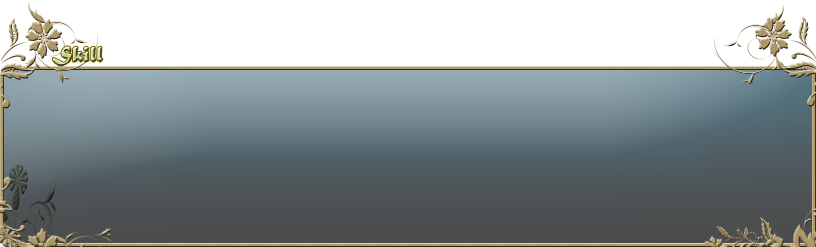
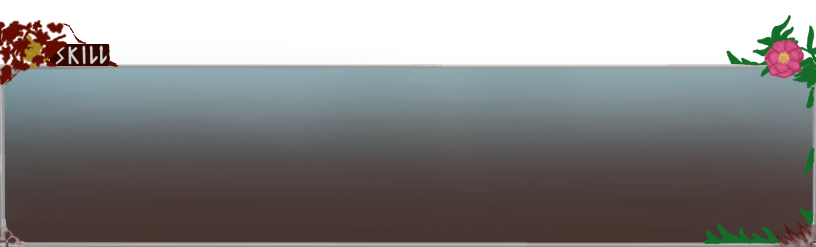
Tok vekk alle de tullete default bildene. Nei jeg lyger jeg gjorde ikke det, men jeg tok vekk en god del :heart: Og så fikset jeg opp i combat koden siden den var silly og frustrerende før, og nå er en tøff! Jeg har også begynt å tegne mere av combai ui'en som er rå kult! Dette var en langog fin com

diff --git a/js/plugins/MOG_BattleHud.js b/js/plugins/MOG_BattleHud.js
@@ -1832,12 +1832,16 @@ Window_BattleEnemy.prototype.maxCols = function() {
 // ** Window_ActorCommand - Command Bar
 //=============================================================================
 
-// How far (in pixels) the selected item slides to the right
-// Change this number to adjust the slide distance
-Window_ActorCommand.COMMAND_BAR_SLIDE = 12;
-
-// X offset for all bars (change this to move them left/right)
+// How far the selected bar pops LEFT (increase to pop more)
+Window_ActorCommand.COMMAND_BAR_SELECTED_X = -8;
+// How far right unselected bars sit
+Window_ActorCommand.COMMAND_BAR_UNSELECTED_X = 10;
+// Base X offset for all bars
 Window_ActorCommand.COMMAND_BAR_OFFSET_X = 8;
+// Scale of selected bar (1.0 = normal)
+Window_ActorCommand.COMMAND_BAR_SELECTED_SCALE = 1.08;
+// Extra spacing between bars in pixels
+Window_ActorCommand.COMMAND_BAR_SPACING = 6;
 
 //==============================
 // * Symbol to image name
@@ -1854,17 +1858,15 @@ Window_ActorCommand.prototype._symbolToBarName = function(symbol) {
 // * Draw Item - suppress default text
 //==============================
 Window_ActorCommand.prototype.drawItem = function(index) {
-	// Do nothing - bars are drawn as sprites in _commandBarContainer
+	// Bars are sprites — suppress default text
 };
 
 //==============================
 // * Create bar sprite container
 //==============================
 Window_ActorCommand.prototype.createCommandBarSprites = function() {
-	if (this._commandBarContainer) {
-		if (this._commandBarContainer.parent) {
-			this._commandBarContainer.parent.removeChild(this._commandBarContainer);
-		}
+	if (this._commandBarContainer && this._commandBarContainer.parent) {
+		this._commandBarContainer.parent.removeChild(this._commandBarContainer);
 	}
 	this._commandBarContainer = new Sprite();
 	this._commandBarSprites = [];
@@ -1872,6 +1874,8 @@ Window_ActorCommand.prototype.createCommandBarSprites = function() {
 	for (var i = 0; i < names.length; i++) {
 		var sp = new Sprite(ImageManager.loadBHud(names[i]));
 		sp._cmdIndex = i;
+		// Start off-screen to the right so they slide in
+		sp.x = Graphics.width + 100;
 		this._commandBarContainer.addChild(sp);
 		this._commandBarSprites.push(sp);
 	}
@@ -1879,17 +1883,51 @@ Window_ActorCommand.prototype.createCommandBarSprites = function() {
 };
 
 //==============================
-// * Update bars position/opacity each frame
+// * Remember last selected symbol globally
 //==============================
-// X offset for unselected bars (nudged right)
-Window_ActorCommand.COMMAND_BAR_UNSELECTED_X = 10;
-// How far selected bar pops left (negative = left)
-Window_ActorCommand.COMMAND_BAR_SELECTED_X = -8;
-// Scale of selected bar
-Window_ActorCommand.COMMAND_BAR_SELECTED_SCALE = 1.08;
-// Extra spacing between bars in pixels
-Window_ActorCommand.COMMAND_BAR_SPACING = 6;
+Window_ActorCommand._lastSymbol = null;
 
+//==============================
+// * Called when player confirms a command — save the symbol
+//==============================
+var _mog_bhud_wActCom_processOk = Window_ActorCommand.prototype.processOk;
+Window_ActorCommand.prototype.processOk = function() {
+	Window_ActorCommand._lastSymbol = this.currentSymbol();
+	_mog_bhud_wActCom_processOk.call(this);
+};
+
+//==============================
+// * Select best command on open
+//==============================
+Window_ActorCommand.prototype.selectFirstEnabled = function() {
+	if (!this._list || this._list.length === 0) {return};
+	var last = Window_ActorCommand._lastSymbol;
+	// Fallback chain: if last symbol unavailable, try these in order
+	var fallbacks = {
+		'attack': ['skill', 'guard', 'item'],
+		'skill':  ['attack', 'guard', 'item'],
+		'guard':  ['attack', 'skill', 'item'],
+		'item':   ['attack', 'skill', 'guard'],
+	};
+	var tryOrder = last ? [last].concat(fallbacks[last] || ['guard','skill','item']) : ['attack','skill','guard','item'];
+	for (var t = 0; t < tryOrder.length; t++) {
+		var sym = tryOrder[t];
+		for (var i = 0; i < this._list.length; i++) {
+			if (this.commandSymbol(i) === sym && this.isCommandEnabled(i)) {
+				this.select(i);
+				return;
+			}
+		}
+	}
+	// Last resort: first enabled
+	for (var i = 0; i < this._list.length; i++) {
+		if (this.isCommandEnabled(i)) {this.select(i); return;}
+	}
+};
+
+//==============================
+// * Update bars position/opacity/scale each frame
+//==============================
 Window_ActorCommand.prototype.updateCommandBars = function() {
 	if (!this._commandBarSprites) {return};
 	if (!this._list || this._list.length === 0) {return};
@@ -1927,13 +1965,18 @@ Window_ActorCommand.prototype.update = function() {
 	this.updateCommandBars();
 };
 
+//==============================
+// * Hide cursor flash
+//==============================
 Window_ActorCommand.prototype.setCursorRect = function(x, y, width, height) {
 	Window.prototype.setCursorRect.call(this, 0, 0, 0, 0);
 };
 
-// Skip over disabled commands when moving cursor
-var _mog_bhud_wActCom_cursorDown = Window_ActorCommand.prototype.cursorDown;
+//==============================
+// * Skip disabled commands on cursor move
+//==============================
 Window_ActorCommand.prototype.cursorDown = function(wrap) {
+	if (!this._list) {return};
 	var max = this.maxItems();
 	var index = this.index();
 	for (var i = 1; i <= max; i++) {
@@ -1942,8 +1985,8 @@ Window_ActorCommand.prototype.cursorDown = function(wrap) {
 	}
 };
 
-var _mog_bhud_wActCom_cursorUp = Window_ActorCommand.prototype.cursorUp;
 Window_ActorCommand.prototype.cursorUp = function(wrap) {
+	if (!this._list) {return};
 	var max = this.maxItems();
 	var index = this.index();
 	for (var i = 1; i <= max; i++) {
@@ -1975,6 +2018,7 @@ var _alias_mog_bhud_wActCom_activate = Window_ActorCommand.prototype.activate;
 Window_ActorCommand.prototype.activate = function() {
     _alias_mog_bhud_wActCom_activate.call(this);
     if (String(Moghunter.bhud_com_layout) === "true") {this._force_hide_duration = 1};
+    this.selectFirstEnabled();
 };
 
 //==============================
@@ -2204,11 +2248,6 @@ var _mog_bhud_sprbat_updateActors = Spriteset_Battle.prototype.updateActors;
 Spriteset_Battle.prototype.updateActors = function() {
 	if (!$gameSystem.isSideView()) {return};
 	_mog_bhud_sprbat_updateActors.call(this);
-};
-
-var _mog_bhud_sprbat_createActors = Spriteset_Battle.prototype.createActors;
-Spriteset_Battle.prototype.createActors = function() {
-	_mog_bhud_sprbat_createActors.call(this);
 };
 
 var _mog_bhud_sprbat_createEnemies = Spriteset_Battle.prototype.createEnemies;

diff --git a/js/plugins/BodyGuard.js b/js/plugins/BodyGuard.js
@@ -10,6 +10,10 @@
  * @desc Comma-separated indices of the bodyguard enemies.
  * @default 0,1
  *
+ * @param Troop ID
+ * @desc The ID of the troop this system activates for. 0 = all troops.
+ * @default 0
+ *
  * @param Intercept Message
  * @desc Message shown the first time a bodyguard intercepts. Use %1 for guard name.
  * @default %1 steps in front to protect their master!
@@ -19,12 +23,16 @@
     var params = PluginManager.parameters('BodyguardSystem');
     var BOSS_INDEX    = Number(params['Boss Index'] || 2);
     var GUARD_INDICES = String(params['Guard Indices'] || '0,1').split(',').map(Number);
-    var MESSAGE       = String(params['Intercept Message'] || 'Hehe.. Thank you Piggy.');
+    var TROOP_ID      = Number(params['Troop ID'] || 5);
+    var MESSAGE       = String(params['Intercept Message'] || 'Hehe... Thank you piggy.');
 
     var _hasShownMessage = false;
     var _queuedMessage = null;
 
-    // Reset flag at the start of each battle
+    function isCorrectTroop() {
+        return TROOP_ID === 0 || $gameTroop.troop().id === TROOP_ID;
+    }
+
     var _BattleManager_startBattle = BattleManager.startBattle;
     BattleManager.startBattle = function() {
         _hasShownMessage = false;
@@ -32,7 +40,6 @@
         _BattleManager_startBattle.call(this);
     };
 
-    // After all actions in a turn are done, show the queued message if any
     var _BattleManager_endTurn = BattleManager.endTurn;
     BattleManager.endTurn = function() {
         _BattleManager_endTurn.call(this);
@@ -46,7 +53,7 @@
     Game_Action.prototype.makeTargets = function() {
         var targets = _Game_Action_makeTargets.call(this);
 
-        if (this.isForOpponent() && this.subject().isActor()) {
+        if (this.isForOpponent() && this.subject().isActor() && isCorrectTroop()) {
             targets = targets.map(function(target) {
                 return interceptIfBoss(target);
             });